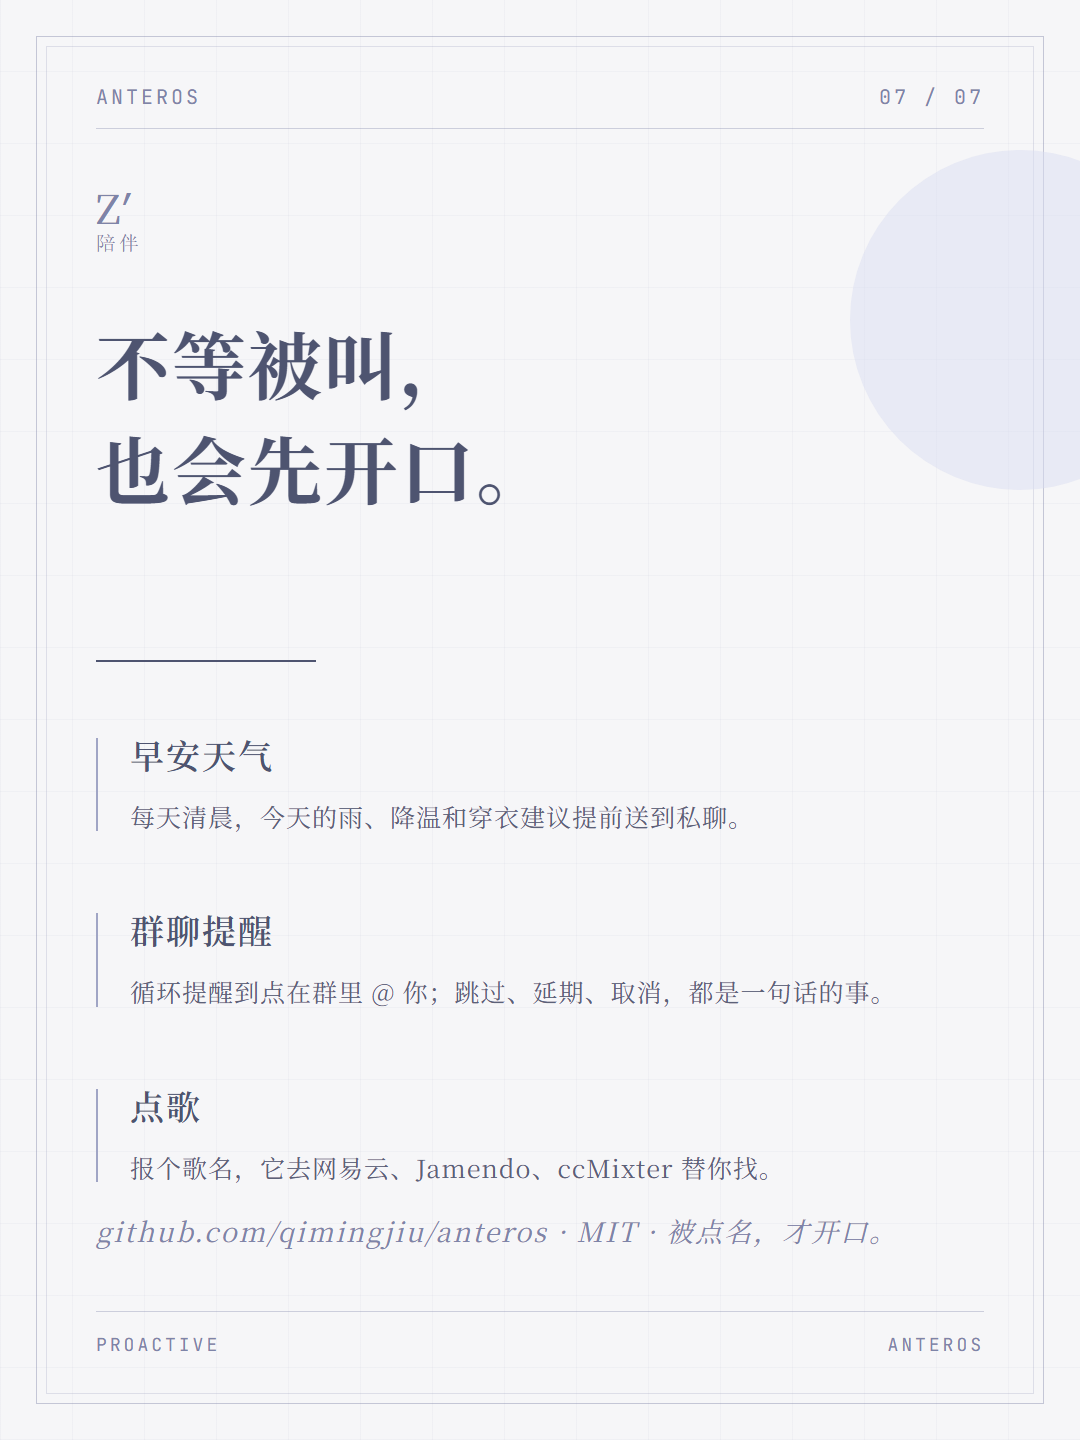
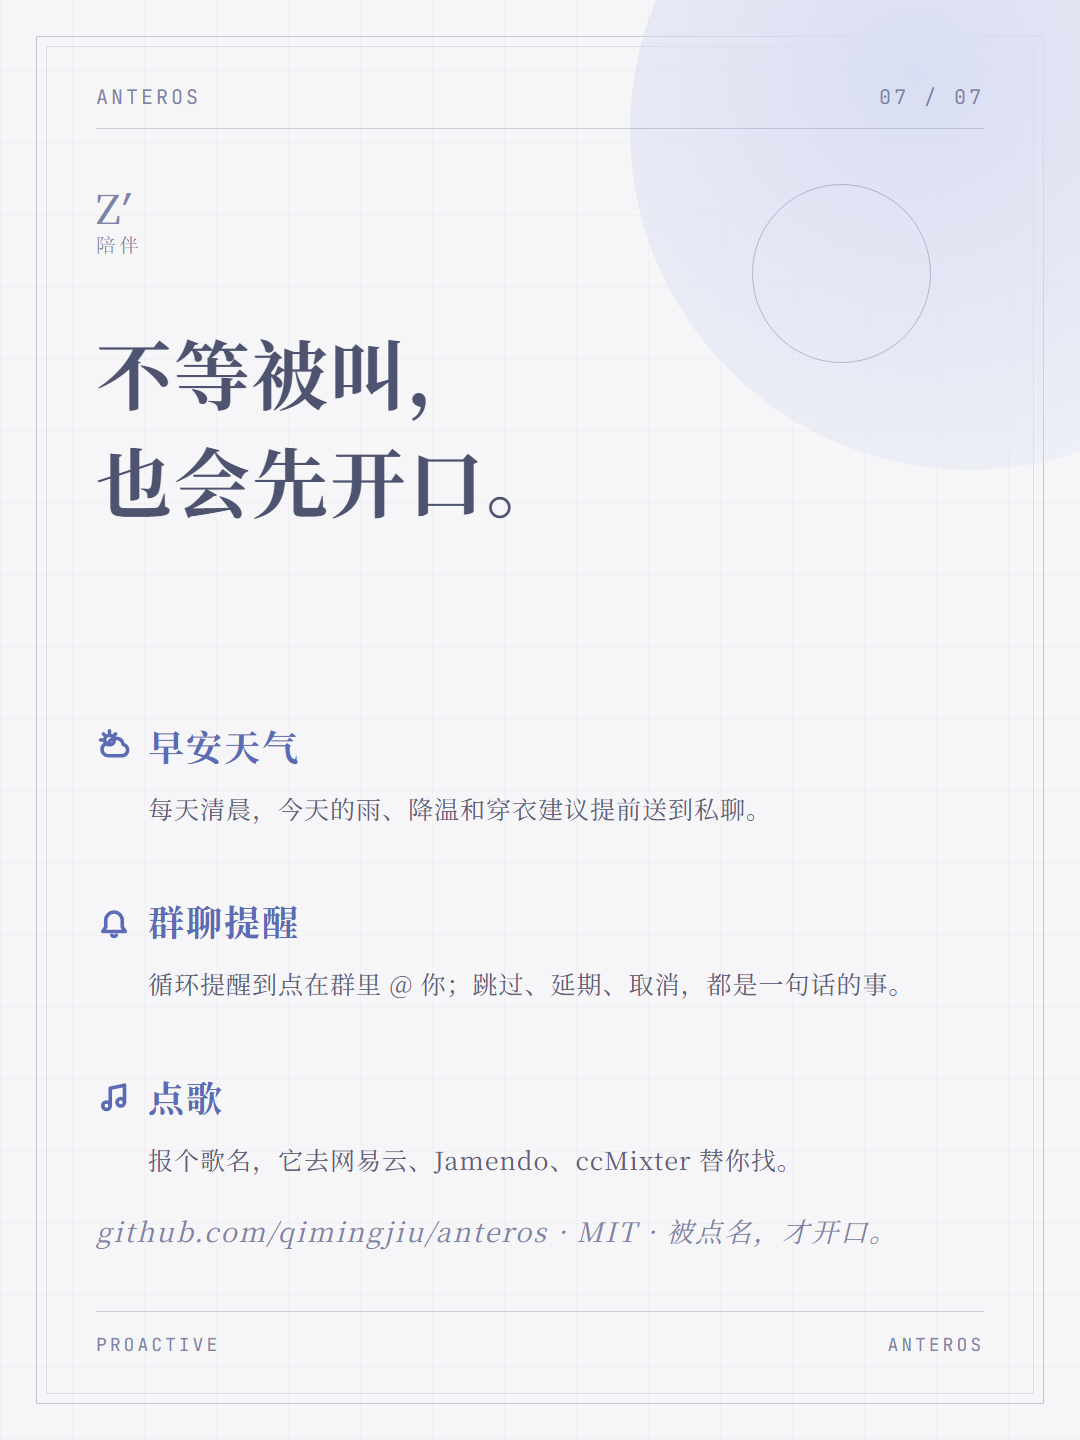
卡组改版：出血巨盘、跳色图标标题、去隔断线
按外部设计反馈调整内容卡：右上装饰圆放大出血并加环饰；小标题加粗改主题蓝
并配手绘几何图标；去掉大标题下的横短线，以留白分区。

diff --git a/social/cards.html b/social/cards.html
@@ -14,6 +14,7 @@
     --ink: #7E84A8;
     --ink-deep: #4E5470;
     --blush: #D8C0C8;
+    --accent: #5B6BB4;
   }
   * { margin: 0; padding: 0; box-sizing: border-box; }
   body { background: #e9eaf0; font-family: "Noto Serif SC", serif; }
@@ -31,8 +32,8 @@
   .grid-bg {
     position: absolute; inset: 0;
     background-image:
-      repeating-linear-gradient(0deg, rgba(126,132,168,0.055) 0 1px, transparent 1px 72px),
-      repeating-linear-gradient(90deg, rgba(126,132,168,0.055) 0 1px, transparent 1px 72px);
+      repeating-linear-gradient(0deg, rgba(126,132,168,0.05) 0 1px, transparent 1px 72px),
+      repeating-linear-gradient(90deg, rgba(126,132,168,0.05) 0 1px, transparent 1px 72px);
   }
   .frame-outer { position: absolute; inset: 36px; border: 1px solid rgba(126,132,168,0.42); }
   .frame-inner { position: absolute; inset: 46px; border: 1px solid rgba(126,132,168,0.20); }
@@ -89,40 +90,47 @@
     font-size: 30px; color: var(--ink-deep); letter-spacing: 4px;
   }
 
-  /* ===== 内容卡通用 ===== */
+  /* ===== 内容卡通用（外援修订版：出血巨盘 / 跳色粗标题 / 图标引导 / 去横线） ===== */
   .chapter-disc {
-    position: absolute; top: 150px; right: -110px;
-    width: 340px; height: 340px; border-radius: 50%;
-    background: var(--disc); opacity: 0.5;
+    position: absolute; top: -210px; right: -230px;
+    width: 680px; height: 680px; border-radius: 50%;
+    background: radial-gradient(circle at 42% 42%, var(--disc) 0%, rgba(217,222,242,0.45) 58%, rgba(217,222,242,0) 100%);
+  }
+  .chapter-disc::after {
+    content: ""; position: absolute; left: 18%; top: 58%;
+    width: 26%; height: 26%; border-radius: 50%;
+    border: 1.5px solid rgba(126,132,168,0.5);
   }
   .chapter-num {
     position: absolute; top: 178px; left: 96px;
     font-family: "Cormorant Garamond", serif; font-weight: 500; font-size: 40px; color: var(--ink);
   }
   .chapter-cat {
-    position: absolute; top: 230px; left: 96px;
+    position: absolute; top: 232px; left: 96px;
     font-size: 20px; color: var(--ink);
   }
   .chapter-title {
-    position: absolute; top: 310px; left: 96px; right: 110px;
-    font-size: 74px; font-weight: 700; line-height: 1.42; color: var(--ink-deep);
+    position: absolute; top: 318px; left: 96px; right: 110px;
+    font-size: 76px; font-weight: 700; line-height: 1.42; color: var(--ink-deep);
     letter-spacing: 2px;
   }
-  .chapter-rule { position: absolute; left: 96px; width: 220px; height: 2px; background: var(--ink-deep); }
   .blocks { position: absolute; left: 96px; right: 110px; }
-  .blk { position: relative; padding-left: 34px; margin-bottom: 66px; }
-  .blk::before {
-    content: ""; position: absolute; left: 0; top: 8px; bottom: 8px;
-    width: 2px; background: var(--mid);
+  .blk { position: relative; margin-bottom: 64px; }
+  .blk h3 {
+    display: flex; align-items: center; gap: 16px;
+    font-size: 36px; font-weight: 700; color: var(--accent); letter-spacing: 2px; margin-bottom: 14px;
   }
-  .blk h3 { font-size: 34px; font-weight: 600; color: var(--ink-deep); letter-spacing: 2px; margin-bottom: 14px; }
-  .blk p { font-size: 25px; line-height: 1.85; color: #5c6178; letter-spacing: 1px; }
+  .blk h3 svg {
+    width: 36px; height: 36px; flex: none;
+    stroke: var(--accent); stroke-width: 2.4; fill: none; stroke-linecap: round; stroke-linejoin: round;
+  }
+  .blk h3 svg .fill { fill: var(--accent); stroke: none; }
+  .blk p { font-size: 25px; line-height: 1.85; color: #5c6178; letter-spacing: 1px; padding-left: 52px; }
   .blk p em { font-style: normal; color: var(--ink-deep); border-bottom: 1px solid var(--blush); }
   .aside {
     position: absolute; left: 96px; right: 110px;
     font-style: italic; font-size: 27px; color: var(--ink); letter-spacing: 2px;
   }
-  .footer-repo { position: absolute; bottom: 84px; left: 96px; right: 96px; display: flex; justify-content: space-between; font-size: 18px; color: var(--ink); }
 </style>
 </head>
 <body>
@@ -136,7 +144,6 @@
     <div class="top-label mono"><span>ANTEROS</span><span>QQ GROUP BOT · MIT</span></div>
     <div class="top-hairline"></div>
     <div class="moon"></div>
-    <!-- 公共领域棕榈枝位图（Wikimedia Commons），keyed 后嵌入；SVG 手绘版保留作兜底 -->
     <img class="palm-img" src="palm.png" alt="" onerror="this.style.display='none';document.querySelector('.palm').style.display='block'">
     <svg class="palm" viewBox="0 0 560 560" style="display:none">
       <path d="M 196 470 Q 292 296 432 136"/>
@@ -186,14 +193,13 @@
     <div class="chapter-num">Αʹ</div>
     <div class="chapter-cat mono">它解决什么</div>
     <div class="chapter-title">群里说好的事，<br>转头就沉进了聊天记录。</div>
-    <div class="chapter-rule" style="top:660px"></div>
-    <div class="blocks" style="top:730px">
+    <div class="blocks" style="top:720px">
       <div class="blk">
-        <h3>以前</h3>
+        <h3><svg viewBox="0 0 24 24"><path d="M6.5 4.8A7 7 0 1 1 5 12"/><path d="M5.5 3.5v4.2h4.2"/></svg>以前</h3>
         <p>约好的时间没人记得；同一个链接被发了三遍，没人发觉；想找一句"谁说过的话"，要翻几百条消息。</p>
       </div>
       <div class="blk">
-        <h3>现在</h3>
+        <h3><svg viewBox="0 0 24 24"><circle cx="12" cy="12" r="7.2"/><circle class="fill" cx="12" cy="12" r="3"/></svg>现在</h3>
         <p>它记得<em>谁、在什么时候、说过什么</em>；七天前的旧链接再出现，它会替你翻出原话。</p>
       </div>
     </div>
@@ -215,18 +221,17 @@
     <div class="chapter-num">Βʹ</div>
     <div class="chapter-cat mono">它是谁</div>
     <div class="chapter-title">一个长期在线的群友。</div>
-    <div class="chapter-rule" style="top:520px"></div>
     <div class="blocks" style="top:600px">
       <div class="blk">
-        <h3>记得住</h3>
+        <h3><svg viewBox="0 0 24 24"><path d="M7.5 4.5h9.5v15.5l-4.8-3.4-4.7 3.4z"/></svg>记得住</h3>
         <p>话题、约定、每个人说过的话——按群隔离，各群的记忆互不串门。</p>
       </div>
       <div class="blk">
-        <h3>查得到</h3>
+        <h3><svg viewBox="0 0 24 24"><circle cx="10.5" cy="10.5" r="5.5"/><path d="M14.8 14.8L20 20"/></svg>查得到</h3>
         <p>搜索、读网页、读群友发的 PDF 和表格，结论带来源。</p>
       </div>
       <div class="blk">
-        <h3>写得出</h3>
+        <h3><svg viewBox="0 0 24 24"><path d="M5 19.5l1.2-4L15.8 5l3 3L9.2 18.3z"/><path d="M13.8 7l3 3"/></svg>写得出</h3>
         <p>每天一篇群日报，Markdown 整理好，私聊送到你手上。</p>
       </div>
     </div>
@@ -248,18 +253,17 @@
     <div class="chapter-num">Γʹ</div>
     <div class="chapter-cat mono">记忆</div>
     <div class="chapter-title">谁说的、什么时候说的，<br>改口了也算数。</div>
-    <div class="chapter-rule" style="top:660px"></div>
-    <div class="blocks" style="top:730px">
+    <div class="blocks" style="top:720px">
       <div class="blk">
-        <h3>两级事实</h3>
+        <h3><svg viewBox="0 0 24 24"><path d="M12 3.5l8.5 4.2-8.5 4.3-8.5-4.3z"/><path d="M3.5 12.5l8.5 4.2 8.5-4.2"/></svg>两级事实</h3>
         <p>话题结束自动提取事实，先列<em>候选</em>，当事人确认才升级——转述不会被当成本人发言。</p>
       </div>
       <div class="blk">
-        <h3>随时修订</h3>
+        <h3><svg viewBox="0 0 24 24"><path d="M4.5 19.5l1.2-4L15.3 6l3 3-9.6 9.5z"/><path d="M13.2 8l3 3"/><path d="M4 22.5h16"/></svg>随时修订</h3>
         <p>/记忆、/记忆确认、/记忆作废、/搜 关键词，群里就能查、能改、能忘。</p>
       </div>
     </div>
-    <div class="aside" style="bottom:190px"> attribution 可追溯：每条记忆都连回原来的消息。</div>
+    <div class="aside" style="bottom:190px">归因可追溯：每条记忆都连回原来的消息。</div>
     <div class="bottom-hairline"></div>
     <div class="bottom-label mono"><span>MEMORY</span><span>ANTEROS</span></div>
   </div>
@@ -277,14 +281,13 @@
     <div class="chapter-num">Δʹ</div>
     <div class="chapter-cat mono">日报</div>
     <div class="chapter-title">每天睡前，<br>群里的事整理好送过来。</div>
-    <div class="chapter-rule" style="top:660px"></div>
-    <div class="blocks" style="top:730px">
+    <div class="blocks" style="top:720px">
       <div class="blk">
-        <h3>六个栏目</h3>
+        <h3><svg viewBox="0 0 24 24"><rect x="4.5" y="4.5" width="6.5" height="6.5" rx="1"/><rect x="13.5" y="4.5" width="6.5" height="6.5" rx="1"/><rect x="4.5" y="13.5" width="6.5" height="6.5" rx="1"/><rect x="13.5" y="13.5" width="6.5" height="6.5" rx="1"/></svg>六个栏目</h3>
         <p>今日话题 · 资源分享 · 约定待办 · 未解决问题 · 趣味片段 · 数据范围。</p>
       </div>
       <div class="blk">
-        <h3>不编造</h3>
+        <h3><svg viewBox="0 0 24 24"><path d="M12 3.5l7 2.8v6c0 4.2-3 7.3-7 8.7-4-1.4-7-4.5-7-8.7v-6z"/><path d="M9 12l2.2 2.2 4-4.2"/></svg>不编造</h3>
         <p>人数与消息量<em>全部来自数据库统计</em>，不交给模型发挥；原子写入，投递失败有限重试，回执不明不乱发。</p>
       </div>
     </div>
@@ -306,14 +309,13 @@
     <div class="chapter-num">Εʹ</div>
     <div class="chapter-cat mono">工具</div>
     <div class="chapter-title">查得到资料，<br>做得了文件。</div>
-    <div class="chapter-rule" style="top:660px"></div>
-    <div class="blocks" style="top:730px">
+    <div class="blocks" style="top:720px">
       <div class="blk">
-        <h3>搜索与阅读</h3>
+        <h3><svg viewBox="0 0 24 24"><path d="M4 5.5c2.8-1.4 5.3-1.4 8 0 2.7-1.4 5.2-1.4 8 0v13c-2.8-1.4-5.3-1.4-8 0-2.7 1.4-5.2 1.4-8 0z"/><path d="M12 5.5v13"/></svg>搜索与阅读</h3>
         <p>实时信息先搜再答；网页正文阅读逐跳检查 robots，<em>摘要从不冒充全文</em>。</p>
       </div>
       <div class="blk">
-        <h3>生成与接收</h3>
+        <h3><svg viewBox="0 0 24 24"><path d="M7 3.5h7l4 4v13H7z"/><path d="M14 3.5v4h4"/></svg>生成与接收</h3>
         <p>Word / PDF / Markdown 直接发成群文件；群友上传的文档，读得懂，标得出页码。</p>
       </div>
     </div>
@@ -335,18 +337,17 @@
     <div class="chapter-num">Ϛʹ</div>
     <div class="chapter-cat mono">可靠与边界</div>
     <div class="chapter-title">没收到回执，<br>就老实说不知道。</div>
-    <div class="chapter-rule" style="top:660px"></div>
-    <div class="blocks" style="top:730px">
+    <div class="blocks" style="top:720px">
       <div class="blk">
-        <h3>五态状态机</h3>
+        <h3><svg viewBox="0 0 24 24"><circle cx="4.5" cy="12" r="1.6"/><circle cx="9.2" cy="12" r="1.6"/><circle cx="14" cy="12" r="1.6"/><circle cx="18.8" cy="12" r="1.6"/><path d="M6.1 12h1.5M10.8 12h1.6M15.6 12h1.6"/></svg>五态状态机</h3>
         <p>排队 / 在途 / 确认 / 失败 / 不明，全部落库；<em>结果不明不盲目重发</em>，崩溃重启按持久状态续跑。</p>
       </div>
       <div class="blk">
-        <h3>权限钉死本人</h3>
+        <h3><svg viewBox="0 0 24 24"><circle cx="8.5" cy="8.5" r="4"/><path d="M11.5 11.5L19.5 19.5"/><path d="M16.5 16.5l2-2M19 19l1.8-1.8"/></svg>权限钉死本人</h3>
         <p>密钥只住环境变量；高权限工具只认主人本人，伪造的参数和引用都无权放行。</p>
       </div>
     </div>
-    <div class="aside" style="bottom:190px">908 个测试用例，从断线重连到"发没发出去不知道"，全都演过。</div>
+    <div class="aside" style="bottom:190px">910 个测试用例，从断线重连到"发没发出去不知道"，全都演过。</div>
     <div class="bottom-hairline"></div>
     <div class="bottom-label mono"><span>RELIABILITY</span><span>ANTEROS</span></div>
   </div>
@@ -364,18 +365,17 @@
     <div class="chapter-num">Ζʹ</div>
     <div class="chapter-cat mono">陪伴</div>
     <div class="chapter-title">不等被叫，<br>也会先开口。</div>
-    <div class="chapter-rule" style="top:660px"></div>
-    <div class="blocks" style="top:730px">
+    <div class="blocks" style="top:720px">
       <div class="blk">
-        <h3>早安天气</h3>
+        <h3><svg viewBox="0 0 24 24"><circle cx="9" cy="8" r="3.2"/><path d="M9 1.8v1.6M3 8h1.6M5 4l1.2 1.2M13 4l-1.2 1.2"/><path d="M8 18.5h9.5a3.8 3.8 0 0 0 .6-7.5 5 5 0 0 0-9.6-1A3.4 3.4 0 0 0 8 18.5z"/></svg>早安天气</h3>
         <p>每天清晨，今天的雨、降温和穿衣建议提前送到私聊。</p>
       </div>
       <div class="blk">
-        <h3>群聊提醒</h3>
+        <h3><svg viewBox="0 0 24 24"><path d="M6.5 16v-4.5a5.5 5.5 0 0 1 11 0V16l2 3h-15z"/><path d="M10.5 21.5a1.8 1.8 0 0 0 3 0"/></svg>群聊提醒</h3>
         <p>循环提醒到点在群里 @ 你；跳过、延期、取消，都是一句话的事。</p>
       </div>
       <div class="blk">
-        <h3>点歌</h3>
+        <h3><svg viewBox="0 0 24 24"><path d="M9.5 18.5V6.8L19 4.8v11.4"/><circle cx="7" cy="18.5" r="2.5"/><circle cx="16.5" cy="16.2" r="2.5"/></svg>点歌</h3>
         <p>报个歌名，它去网易云、Jamendo、ccMixter 替你找。</p>
       </div>
     </div>
